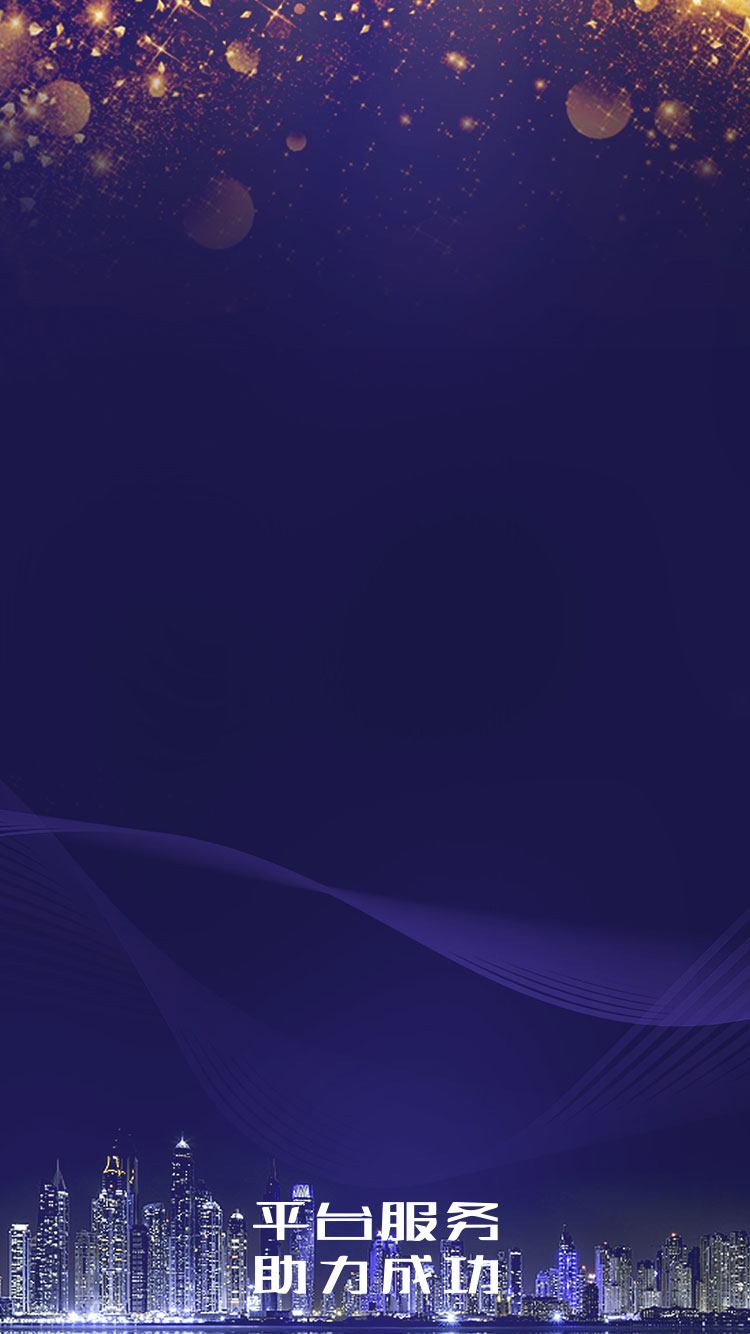
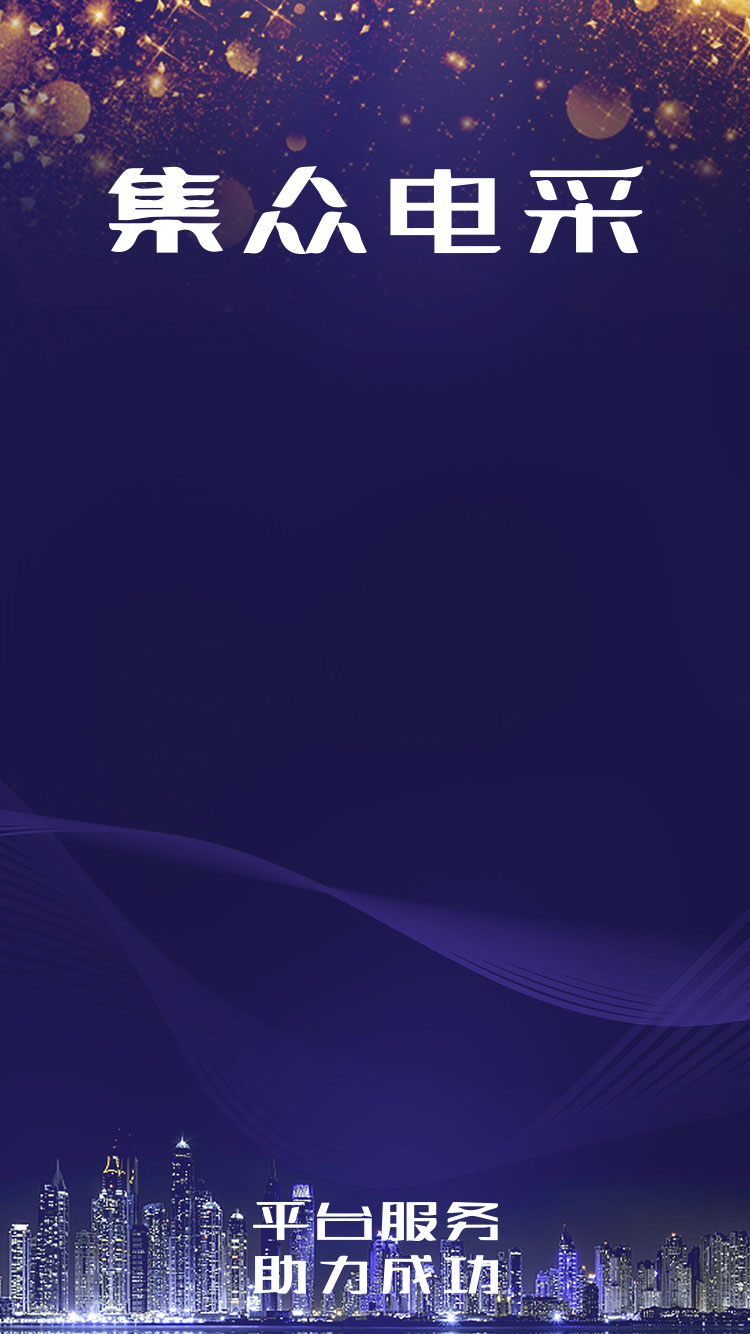
修正首页bug

diff --git a/jzdc-services/css/index.css b/jzdc-services/css/index.css
@@ -1,12 +1,9 @@
-.index-wrap {
-    height: 100vh;
-}
-
-.index-wrap-bg {
-    position: absolute;
-    top: 0;
-    left: 0;
-    z-index: -1;
+.index-1-wrap {
+    height: 100%;
+    width: 100%;
+    background-image: url("../images/index-wrap.jpg");
+    background-size: 100% 100%;
+    -webkit-background-size: 100% 100%;
 }
 
 .index-header {
@@ -23,6 +20,16 @@
     float: left;
 }
 
+.index-header .close {
+    width: 0.42rem;
+    background: url("../images/close.png");
+    background-size: 0.42rem 0.42rem;
+    -webkit-background-size: 0.42rem 0.42rem;
+    display: block;
+    height: 0.42rem;
+    float: right;
+}
+
 .index-header .index-close{
     float: right;
     width: 0.42rem;
@@ -32,16 +39,8 @@
     background-size: 0.42rem 0.42rem;
 }
 
-.index-text{
-    width: 5.38rem;
-    height: 0.88rem;
-    margin: 0 auto 0.8rem;
-    background: url("../images/jzdc-text.png");
-    -webkit-background-size: 5.38rem 0.88rem;
-    background-size: 5.38rem 0.88rem;
-}
-
 .index-menu{
+    padding-top: 2.0rem;
     width:6.2rem;
     margin: 0 auto;
 }
@@ -72,6 +71,7 @@
 
 @media screen and (max-width: 320px) {
     .index-menu{
+        padding-top: 1.2rem;
         width:5.32rem;
         margin: 0 auto;
     }

diff --git a/jzdc-services/index.html b/jzdc-services/index.html
@@ -11,8 +11,8 @@
 <div class="index-1-wrap">
     <div class="index-header clearfix">
         <i class="index-logo"></i>
+        <i class="close"></i>
     </div>
-    <div class="index-text"></div>
     <div class="index-menu">
         <div class="menu-row clearfix">
             <div class="menu-item-left icon icon1">
@@ -39,8 +39,6 @@
             </div>
         </div>
     </div>
-    <!--背景-->
-    <img src="images/index-wrap.jpg" width="100%" height="100%" class="index-wrap-bg" alt="">
 </div>
 </body>
 </html>

diff --git a/jzdc-services/css/reset.css b/jzdc-services/css/reset.css
@@ -140,14 +140,3 @@ table {
 .swiper-slide {
     overflow: hidden;
 }
-
-#body{
-    position: fixed;
-    height: 100%;
-    width: 100%;
-    display:flex;
-    flex-direction:column;
-    align-items:center;/*垂直居中*/
-    justify-content: center;/*水平居中*/
-    overflow: hidden;
-}
